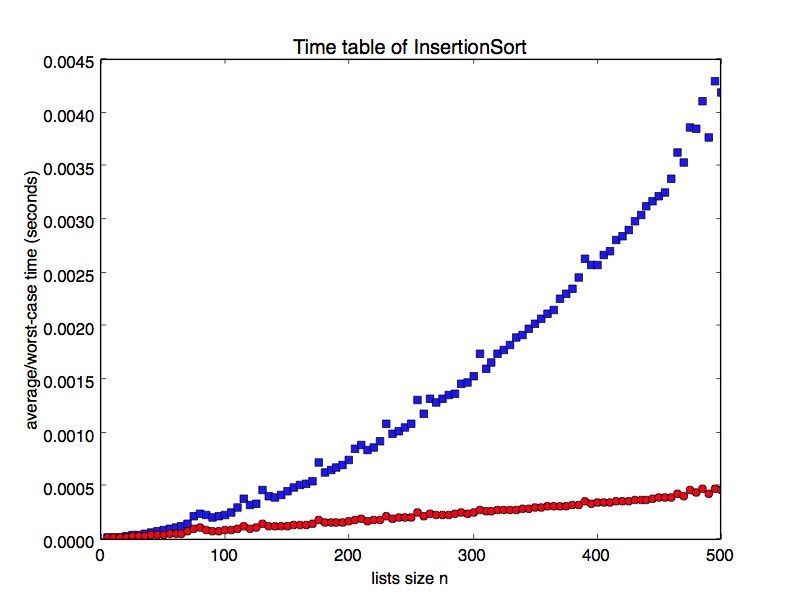
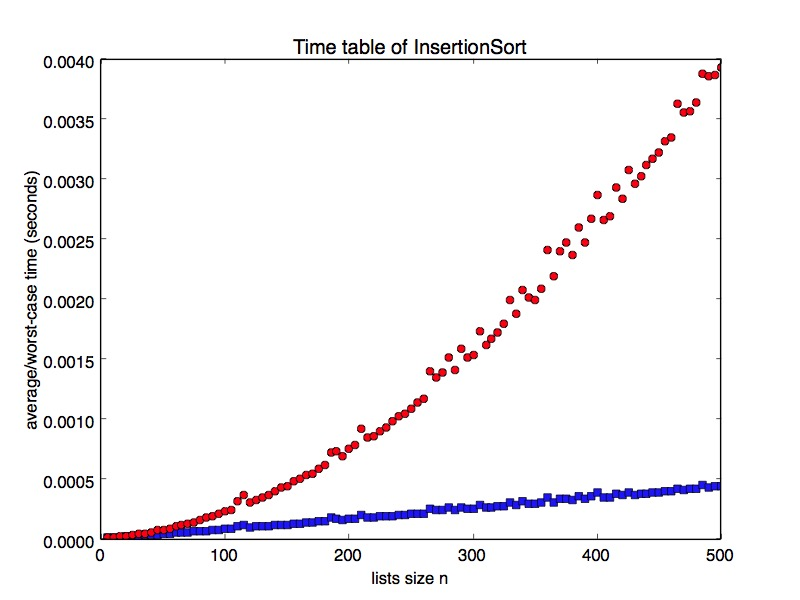
All graphs are done and code is finished.

diff --git a/mySortingFunctions.py b/mySortingFunctions.py
@@ -169,33 +169,33 @@ def runningTime():
 
             #quickReversed = []
             #mergeReversed = []
-            insertionReversed = []
+            #insertionReversed = []
 
             for k in range(0, i):
                 #quickReversed.append(i)
                 #mergeReversed.append(i)
-                insertionReversed.append(i)
+                #insertionReversed.append(i)
 
             #quickReversed.reverse()
             #mergeReversed.reverse()
-            insertionReversed.reverse()
+            #insertionReversed.reverse()
 
 
             #quickTime = measureRunningTimeComplexity(quickSort, random)
             #mergeTime = measureRunningTimeComplexity(mergeSort, random)
-            insertionTime = measureRunningTimeComplexity(insertionSort, random)
+            #insertionTime = measureRunningTimeComplexity(insertionSort, random)
 
             #quickTimes.append(quickTime)
             #mergeTimes.append(mergeTime)
-            insertionTimes.append(insertionTime)
+            #insertionTimes.append(insertionTime)
 
             #quickTime = measureRunningTimeComplexity(quickSort, quickReversed)
             #mergeTime = measureRunningTimeComplexity(mergeSort, mergeReversed)
-            insertionTime = measureRunningTimeComplexity(insertionSort, insertionReversed)
+            #insertionTime = measureRunningTimeComplexity(insertionSort, insertionReversed)
 
             #worstQuickTimes.append(quickTime)
             #worstMergeTimes.append(mergeTime)
-            worstInsertionTimes.append(insertionTime)
+            #worstInsertionTimes.append(insertionTime)
 
         #averageQuick = sum(quickTimes)/float(len(quickTimes))
         #quickAverage.append(averageQuick)
@@ -209,28 +209,28 @@ def runningTime():
         #mergeWorst.append(worstMerge)
 
 
-        averageInsertion = sum(insertionTimes)/float(len(insertionTimes))
-        insertionAverage.append(averageInsertion)
-        worstInsertion = sum(worstInsertionTimes)/float(len(worstInsertionTimes))
-        insertionWorst.append(worstInsertion)
+        #averageInsertion = sum(insertionTimes)/float(len(insertionTimes))
+        #insertionAverage.append(averageInsertion)
+        #worstInsertion = sum(worstInsertionTimes)/float(len(worstInsertionTimes))
+        #insertionWorst.append(worstInsertion)
 
         n.append(i)
 
-        del insertionTimes
+        #del insertionTimes
         #del mergeTimes
         #del quickTimes
 
-        del worstInsertionTimes
+        #del worstInsertionTimes
         #del worstMergeTimes
         #del worstQuickTimes
 
-    plt.plot(n, insertionAverage, 'bs')
-    plt.plot(n, insertionWorst, 'ro')
+    plt.plot(n, quickAverage, 'bs')
+    plt.plot(n, quickWorst, 'ro')
 
     plt.ylabel('average/worst-case time (seconds)')
     plt.xlabel('lists size n')
 
-    plt.title('Time table of InsertionSort')
+    plt.title('Time table of QuickSort')
 
     plt.show()
 
